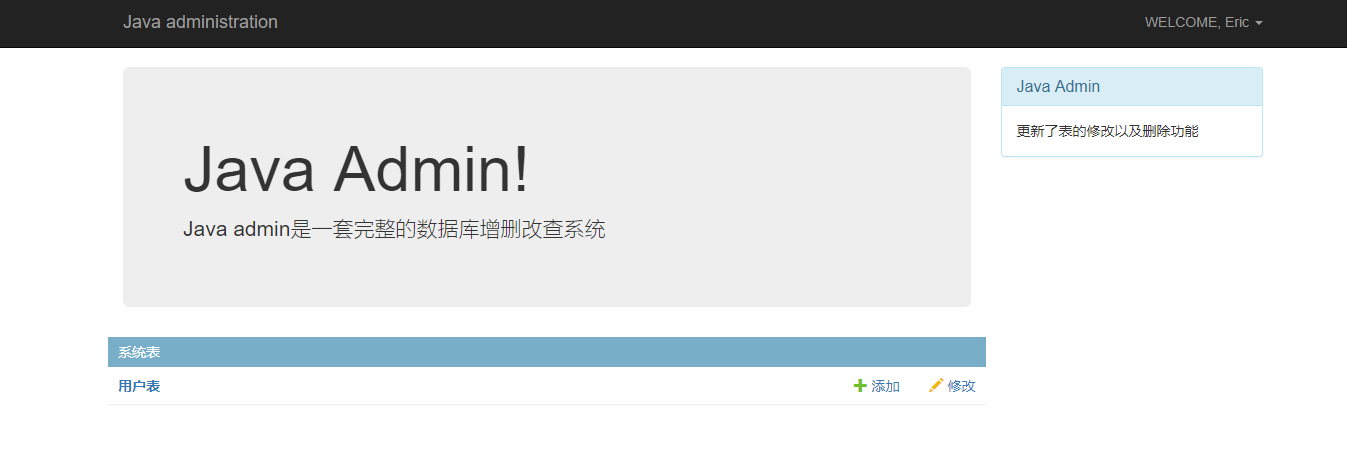
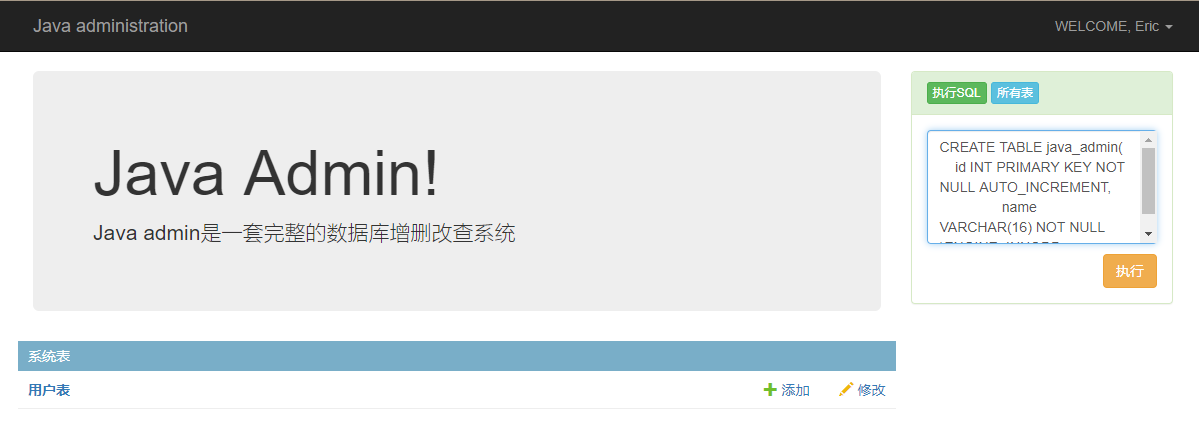
完成执行sql跟获取所有的表名

Changed region(s): [[0.0, 0.0304, 1.0, 0.6986], [0.0, 0.729, 0.7715, 0.9416], [0.0617, 0.3037, 0.4629, 0.5771]]

diff --git a/java_admin/src/main/webapp/WEB-INF/admin/templates/admin.html b/java_admin/src/main/webapp/WEB-INF/admin/templates/admin.html
@@ -19,6 +19,7 @@
     <link th:href="@{/static/css/index.css}" rel="stylesheet">
     <script th:src="@{/static/js/jq/jquery.min.js}"></script>
     <script th:src="@{/static/plugins/bootstrap/js/bootstrap.min.js}"></script>
+    <script th:src="@{/static/plugins/layui/layui.js}"></script>
 </head>
 
 <body>
@@ -96,13 +97,16 @@
                 </div>
                 <div class="panel-body">
                     <div class="execute">
-                        <textarea class="form-control" rows="5" style="resize: none;"></textarea>
-                        <button type="button" class="btn btn-warning pull-right" style="margin-top: 10px;">执行</button>
+                        <textarea class="form-control" rows="5" style="resize: none;" name="sql"></textarea>
+                        <button type="button" class="btn btn-warning pull-right" style="margin-top: 10px;"
+                                onclick="doSql()">执行
+                        </button>
                     </div>
                     <div class="all-table">
                         <div class="tables">
                         </div>
-                        <button type="button" class="btn btn-success center-block" onclick="getTables(this)">获取表</button>
+                        <button type="button" class="btn btn-success center-block" onclick="getTables(this)">获取表
+                        </button>
                     </div>
                 </div>
             </div>
@@ -148,6 +152,30 @@
                     });
                 }
             },
+        });
+    }
+
+    /**
+     * 执行sql语句
+     */
+    function doSql() {
+        let sql = $("textarea[name=sql]").val();
+        $.ajax({
+            url: "/admin/execute_sql",
+            type: "post",
+            data: {
+                sql,
+            },
+            success(args) {
+                layui.use("layer", () => {
+                    let layer = layui.layer;
+                    if (args === "1") {
+                        layer.msg('执行成功', {icon: 1, offset: "150px"});
+                    } else {
+                        layer.msg('执行失败', {icon: 5, offset: "150px"});
+                    }
+                });
+            }
         });
     }
 </script>

diff --git a/java_admin/target/javadmin-1.0-SNAPSHOT/WEB-INF/admin/templates/admin.html b/java_admin/target/javadmin-1.0-SNAPSHOT/WEB-INF/admin/templates/admin.html
@@ -19,6 +19,7 @@
     <link th:href="@{/static/css/index.css}" rel="stylesheet">
     <script th:src="@{/static/js/jq/jquery.min.js}"></script>
     <script th:src="@{/static/plugins/bootstrap/js/bootstrap.min.js}"></script>
+    <script th:src="@{/static/plugins/layui/layui.js}"></script>
 </head>
 
 <body>
@@ -96,13 +97,16 @@
                 </div>
                 <div class="panel-body">
                     <div class="execute">
-                        <textarea class="form-control" rows="5" style="resize: none;"></textarea>
-                        <button type="button" class="btn btn-warning pull-right" style="margin-top: 10px;">执行</button>
+                        <textarea class="form-control" rows="5" style="resize: none;" name="sql"></textarea>
+                        <button type="button" class="btn btn-warning pull-right" style="margin-top: 10px;"
+                                onclick="doSql()">执行
+                        </button>
                     </div>
                     <div class="all-table">
                         <div class="tables">
                         </div>
-                        <button type="button" class="btn btn-success center-block" onclick="getTables(this)">获取表</button>
+                        <button type="button" class="btn btn-success center-block" onclick="getTables(this)">获取表
+                        </button>
                     </div>
                 </div>
             </div>
@@ -148,6 +152,30 @@
                     });
                 }
             },
+        });
+    }
+
+    /**
+     * 执行sql语句
+     */
+    function doSql() {
+        let sql = $("textarea[name=sql]").val();
+        $.ajax({
+            url: "/admin/execute_sql",
+            type: "post",
+            data: {
+                sql,
+            },
+            success(args) {
+                layui.use("layer", () => {
+                    let layer = layui.layer;
+                    if (args === "1") {
+                        layer.msg('执行成功', {icon: 1, offset: "150px"});
+                    } else {
+                        layer.msg('执行失败', {icon: 5, offset: "150px"});
+                    }
+                });
+            }
         });
     }
 </script>

diff --git a/java_admin/src/main/webapp/WEB-INF/admin/templates/table_list.html b/java_admin/src/main/webapp/WEB-INF/admin/templates/table_list.html
@@ -188,13 +188,18 @@
             },
             success(args) {
                 if (args === "1") {
-                    layer.msg('执行成功', {icon: 1, offset: "150px"});
+                    layer.msg('执行成功', {
+                        icon: 1,
+                        offset: "150px",
+                        time: 1000,
+                    }, () => {
+                        location.reload();
+                    });
                     // $("table tbody tr").each((index, item) => {
                     //     if (selectArr.indexOf($(item).attr("index")) !== -1) {
                     //         $(item).remove();
                     //     }
                     // });
-                    location.reload();
                 } else {
                     layer.msg('执行失败', {icon: 5, offset: "150px"});
                 }

diff --git a/java_admin/target/javadmin-1.0-SNAPSHOT/WEB-INF/admin/templates/table_list.html b/java_admin/target/javadmin-1.0-SNAPSHOT/WEB-INF/admin/templates/table_list.html
@@ -188,13 +188,18 @@
             },
             success(args) {
                 if (args === "1") {
-                    layer.msg('执行成功', {icon: 1, offset: "150px"});
+                    layer.msg('执行成功', {
+                        icon: 1,
+                        offset: "150px",
+                        time: 1000,
+                    }, () => {
+                        location.reload();
+                    });
                     // $("table tbody tr").each((index, item) => {
                     //     if (selectArr.indexOf($(item).attr("index")) !== -1) {
                     //         $(item).remove();
                     //     }
                     // });
-                    location.reload();
                 } else {
                     layer.msg('执行失败', {icon: 5, offset: "150px"});
                 }

diff --git a/java_admin/src/main/admin/com/ericjin/javadmin/controller/IndexController.java b/java_admin/src/main/admin/com/ericjin/javadmin/controller/IndexController.java
@@ -5,6 +5,7 @@ import com.ericjin.javadmin.service.UserService;
 import com.github.pagehelper.Page;
 import com.github.pagehelper.PageHelper;
 import com.github.pagehelper.PageInfo;
+import com.sun.scenario.effect.impl.sw.sse.SSEBlend_SRC_OUTPeer;
 import org.springframework.stereotype.Controller;
 import org.springframework.ui.Model;
 import org.springframework.web.bind.annotation.*;
@@ -114,5 +115,21 @@ public class IndexController {
         map.put("flag", true);
         map.put("list", indexService.getAllTables());
         return map;
+    }
+
+    /**
+     * 执行sql语句
+     *
+     * @return
+     */
+    @ResponseBody
+    @PostMapping("/execute_sql")
+    public String executeSql(String sql) {
+        try {
+            indexService.executeSql(sql);
+        } catch (Exception e) {
+            return "0";
+        }
+        return "1";
     }
 }

diff --git a/java_admin/src/main/admin/com/ericjin/javadmin/service/impl/IndexServiceImpl.java b/java_admin/src/main/admin/com/ericjin/javadmin/service/impl/IndexServiceImpl.java
@@ -235,4 +235,14 @@ public class IndexServiceImpl implements IndexService {
     public List<String> getAllTables() {
         return superMapper.getAllTables();
     }
+
+    /**
+     * 执行sql语句
+     *
+     * @return
+     */
+    @Override
+    public void executeSql(String sql) {
+        superMapper.executeSql(sql);
+    }
 }

diff --git a/java_admin/src/main/admin/com/ericjin/javadmin/mapper/SuperMapper.java b/java_admin/src/main/admin/com/ericjin/javadmin/mapper/SuperMapper.java
@@ -46,4 +46,7 @@ public interface SuperMapper {
 
     // 获取数据库中所有的表信息
     List<String> getAllTables();
+
+    // 执行SQL语句
+    void executeSql(@Param("sql") String sql);
 }

diff --git a/java_admin/src/main/admin/com/ericjin/javadmin/service/IndexService.java b/java_admin/src/main/admin/com/ericjin/javadmin/service/IndexService.java
@@ -20,4 +20,6 @@ public interface IndexService {
     List<Map<String, Object>> getRelationTableInfo(Field field);
 
     List<String> getAllTables();
+
+    void executeSql(String sql);
 }

diff --git a/README.md b/README.md
@@ -260,6 +260,10 @@ public Map<String, String> actionMap() {
 
 成功打印所选数据的id信息
 
+# 执行SQL
+
+在Java Admin的首页
+
 
 
  
